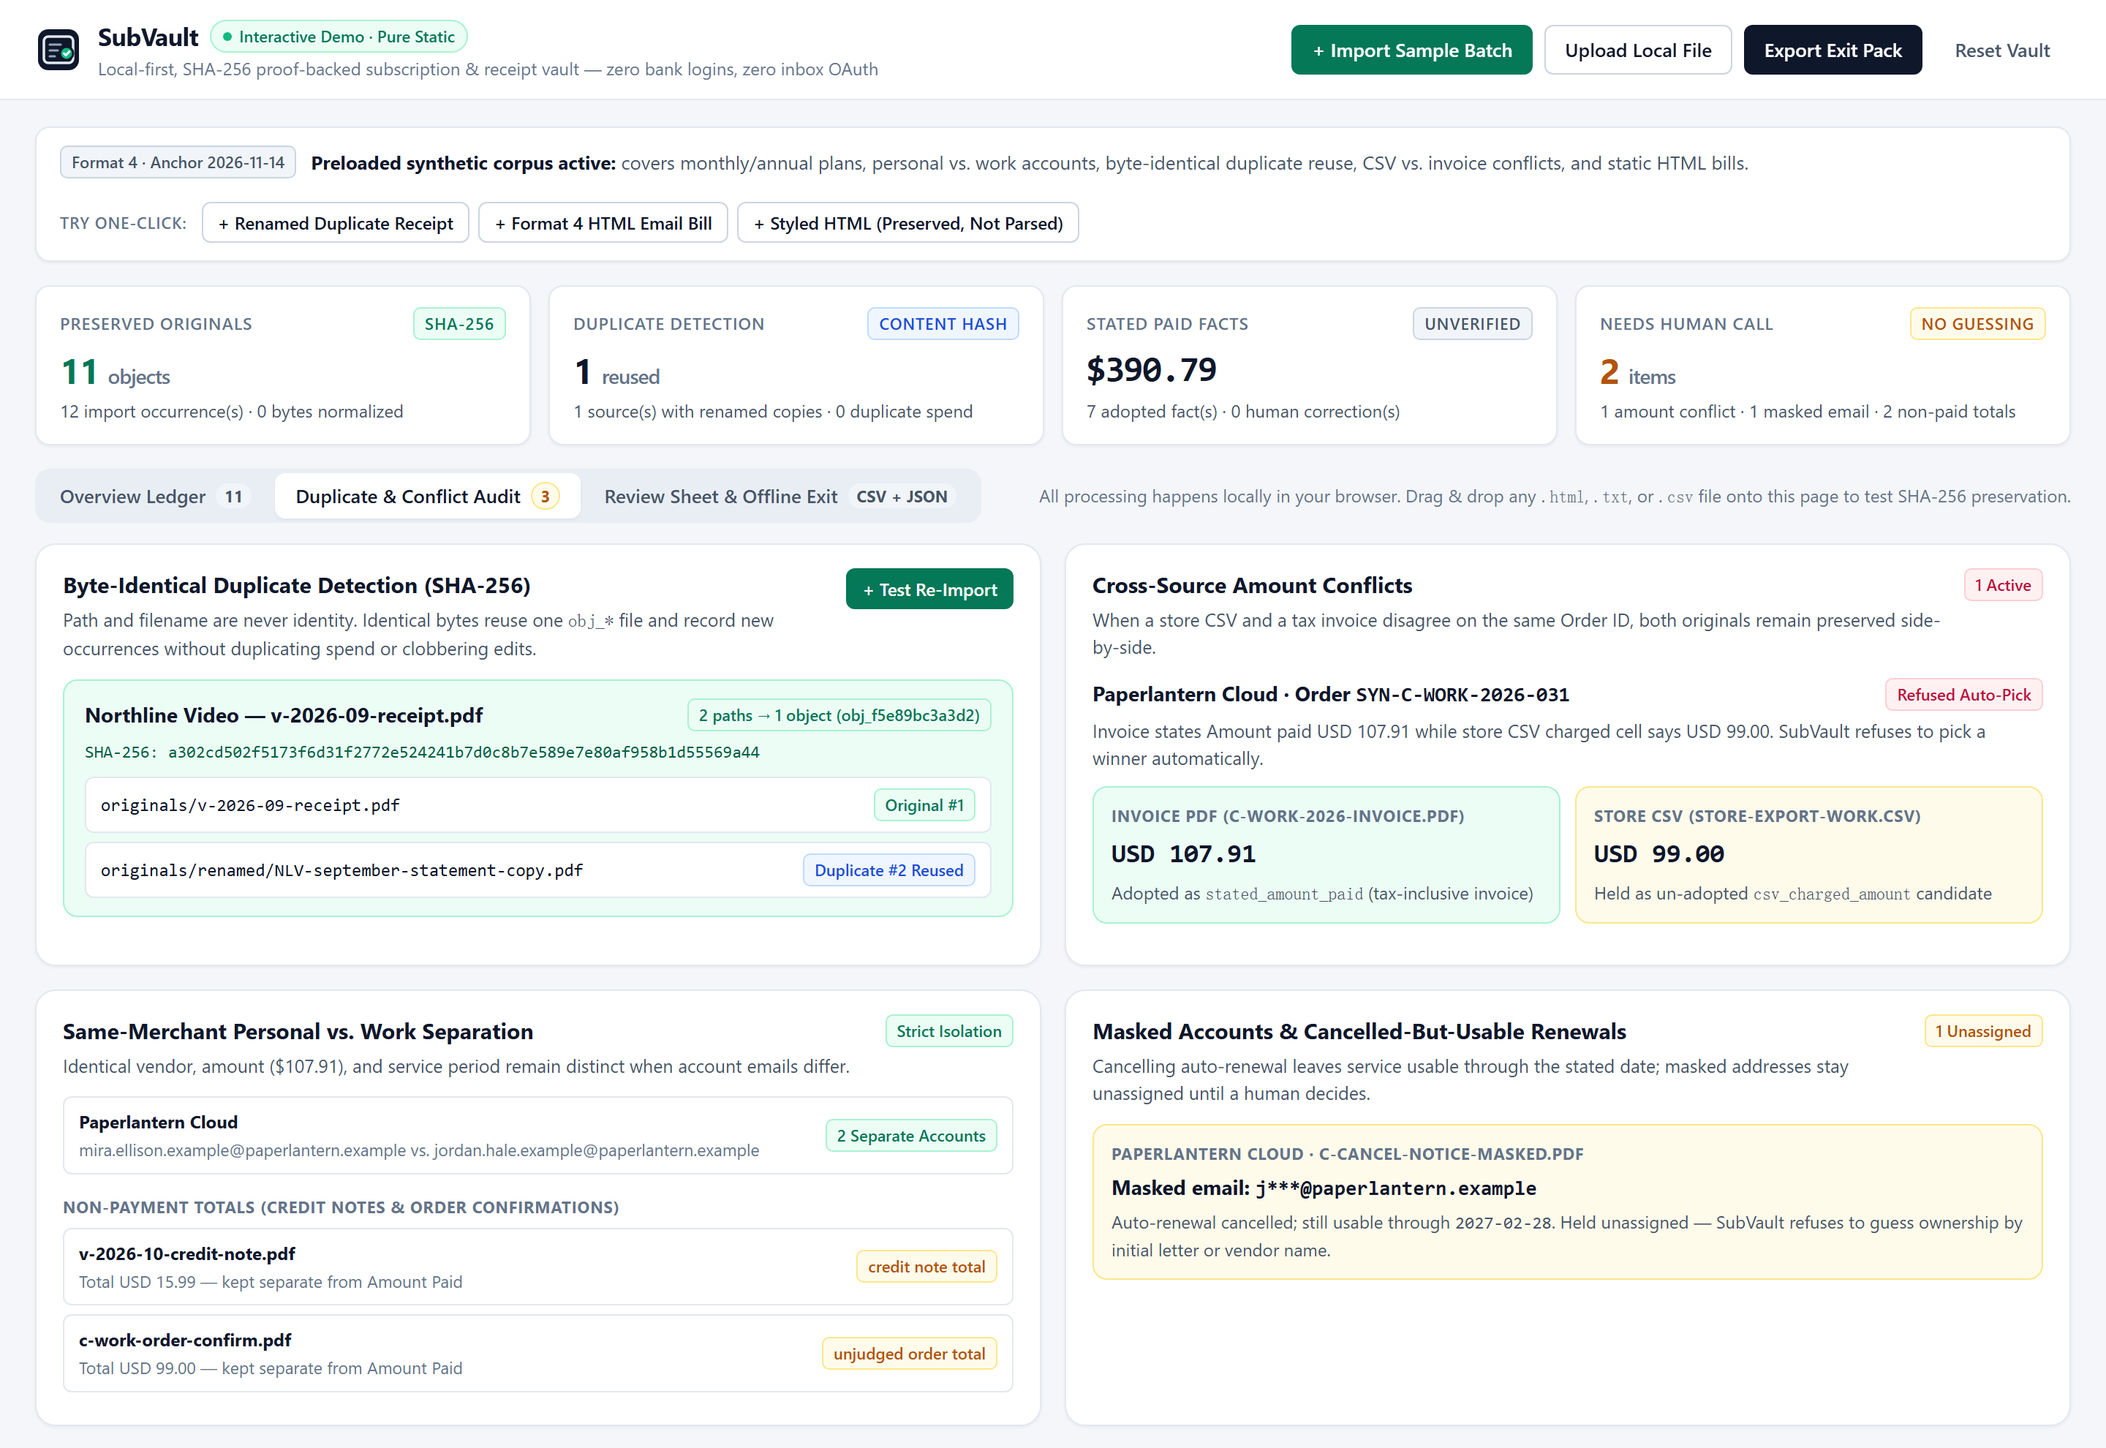
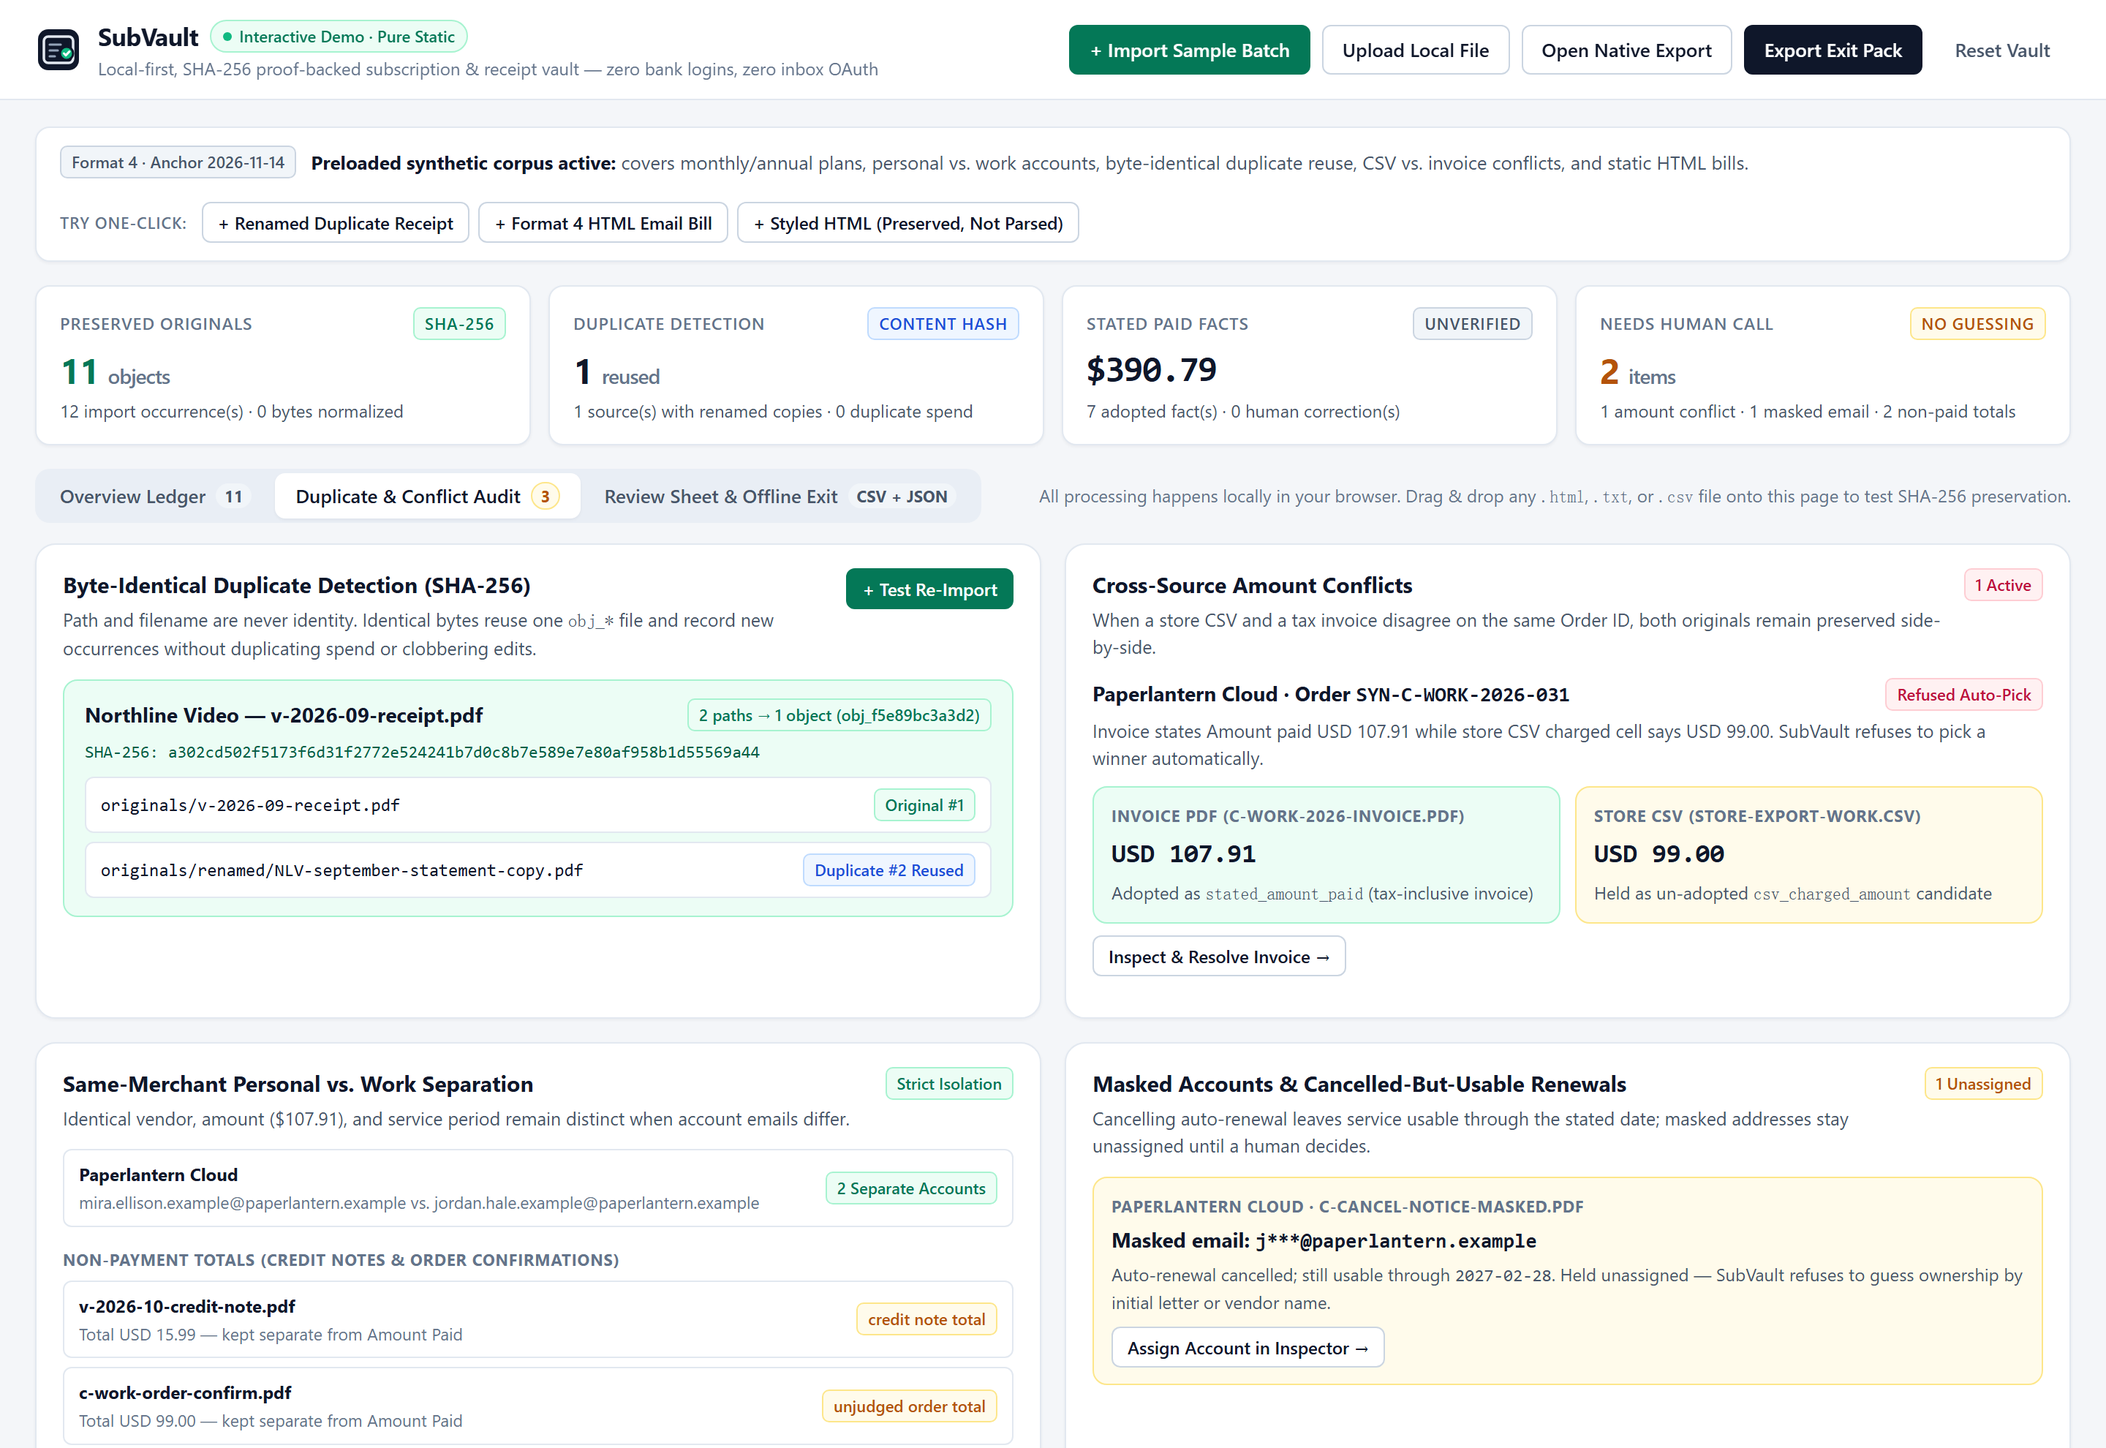
docs: add CHANGELOG, v0.2.0 ROADMAP, refreshed screenshots, and verify-package docs

diff --git a/RELEASE_NOTES.md b/RELEASE_NOTES.md
@@ -15,19 +15,20 @@ SubVault `v0.1.0` packages the verified **local-first Rust + SQLite preservation
 1. **Interactive Pure-Static Web Demo (`web/`)**
    - **Preloaded Synthetic Corpus:** Ships out-of-the-box with realistic billing scenarios covering monthly/annual subscriptions, personal vs. work account separation at the same vendor, byte-identical duplicate detection across renamed files, CSV vs. tax-invoice amount conflicts (`$99.00` vs. `$107.91`), credit-note totals vs. paid amounts, cancelled-but-usable renewals, masked unassigned account emails, one-time perpetual software licenses, and Format 4 static HTML table-row bills.
    - **One-Click Sample Import & Local File Drop:** Re-import the 12-file sample batch or drop local `.html`, `.txt`, `.csv`, and `.pdf` files directly in the browser to observe real SHA-256 object reuse, occurrence logging, and non-destructive human `correct` / `undo` decision preservation.
-   - **Zero Lock-In Browser Exports:** Preview and download `review.txt`, `facts.csv`, `records.json`, and a SHA-256 `manifest.json` (`offline-exit-1`) with zero backend calls.
+   - **Zero Lock-In Browser Exports & Native CLI Interop:** Preview and download `review.txt`, `facts.csv`, `records.json`, `manifest.json`, or a single full `.zip` offline exit archive (`web/zip.js`) directly verifiable by `subvault verify-package`, and open/SHA-256-verify real native `subvault export` folders directly in the browser via **Open Native Export**.
+   - **Interactive Human Decisions & Local Persistence:** Inline amount `correct`/`undo`, masked-account attribution (`human_assign_account`/`undo`), and automatic browser `localStorage` persistence with one-click reset.
    - **Subpath-Safe Static Hosting:** All static asset references are strictly relative (`./*`) with `.nojekyll` enabled for zero-error deployment on GitHub Pages (`/SubVault/`).
 
 2. **Verified Rust + SQLite Preservation & Extraction Core (`subvault` CLI)**
    - **Immutable Byte Custody (T1):** Content-addressed `objects/obj_<id>` storage with SHA-256 integrity verification, zero byte normalization, idempotent `CommandId` journaling, exclusive non-blocking `flock`, SQLite 3.46 WAL (`synchronous=FULL`), atomic directory publication via `renameat2(RENAME_NOREPLACE)` + parent fd `fsync`, and 17 distinct honest exit codes.
    - **Source-Stated Candidates & Facts (T2a / T3 / Format 4):** Deterministic extraction for UTF-8 text fragments and constrained static HTML bills (`tl` 0.7.8 + `html-escape` 0.2.13, refusing `<style>` / stylesheets instead of guessing CSS visibility), recording exact Unicode scalar and UTF-8 byte offsets.
    - **Append-Only Human Decisions:** `correct` and `undo` append auditable human revisions while keeping original bytes untouched and surviving re-imports.
-   - **Offline Exit & Read-Only Review Sheet (T5):** `subvault export` produces self-contained packages (`records.json`, `facts.csv`, `manifest.json`, `originals/<object_id>`) with explicit `complete` vs. `partial` reporting; `subvault review` writes a lock-consistent plain-text review sheet linked only to hash-verified package originals.
+   - **Offline Exit, Standalone Verification & Read-Only Review Sheet (T5):** `subvault export` produces self-contained packages (`records.json`, `facts.csv`, `manifest.json`, `originals/<object_id>`) with explicit `complete` vs. `partial` reporting; `subvault verify-package --package PATH` independently validates `manifest.json`, `snapshot_id`, `facts.csv`, and every original file's SHA-256 without needing the live vault; `subvault review` writes a lock-consistent plain-text review sheet linked only to hash-verified package originals.
 
 3. **CI, Automated Packaging & Release Verification**
-   - Added `.github/workflows/ci.yml` running deterministic corpus verification, full Rust unit and historical-worktree compatibility integration tests, Web Demo checks, and portable bundle packaging with `SHA256SUMS.txt` verification.
+   - Added `.github/workflows/ci.yml` running deterministic corpus verification, `cargo fmt --check`, `cargo clippy --lib --bins -- -D warnings`, full Rust unit and historical-worktree compatibility integration tests, bidirectional Web<->CLI interop checks, and portable bundle packaging with `SHA256SUMS.txt` verification.
    - Added `.github/workflows/pages.yml` for automated GitHub Pages deployment with subpath HTTP 200 checks.
-   - Added `scripts/package-release.sh` to generate reproducible portable archives and `SHA256SUMS.txt`.
+   - Added `.github/workflows/release.yml` for tag-driven (`v*`) GitHub Release publishing alongside `scripts/package-release.sh`.
 
 ---
 

diff --git a/docs/ROADMAP.md b/docs/ROADMAP.md
@@ -1,0 +1,44 @@
+# SubVault Roadmap — Next Iteration (`v0.2.0`)
+
+This document captures the clean handoff boundary at the close of **`v0.1.0`** (verified Linux preservation/extraction core + interactive pure-static Web Demo + bidirectional `offline-exit-1` verification) and defines the concrete engineering milestones for the next iteration (**`v0.2.0`**).
+
+---
+
+## Completed in `v0.1.0`
+
+- [x] **T0–T5 Rust + SQLite Core (Linux `ext4`):** immutable byte preservation (`objects/obj_*`), SHA-256 integrity, `flock`, SQLite 3.46 WAL (`synchronous=FULL`), `renameat2(RENAME_NOREPLACE)` + parent fd `fsync`, Format 1–4 isolation, deterministic UTF-8 fragment & constrained static HTML extraction, append-only `correct`/`undo`, `export`, `review`, and standalone `verify-package`.
+- [x] **Pure-Static Web Demo & Native Bridge (`web/`):** preloaded 12-file synthetic corpus, one-click sample re-import & SHA-256 deduplication audit, masked account attribution + undo, local persistence, pure-JS `.zip` offline exit pack (passes native `subvault verify-package`), and `Open Native Export` loader (verifies native `subvault export` folders in-browser).
+- [x] **Engineering & Release Infrastructure:** `cargo fmt` + `cargo clippy --lib --bins -D warnings` clean, GitHub Actions CI (`ci.yml`), GitHub Pages deploy (`pages.yml`), automated tag release workflow (`release.yml`), portable packaging script (`scripts/package-release.sh`) with `SHA256SUMS.txt`, and headless UI screenshots.
+
+---
+
+## Next Iteration (`v0.2.0`) — From Synthetic Core to First 100 Real Users
+
+### Milestone 1: Native Windows Support & Verification
+- **Goal:** Lift the `target_os = "linux"` compile gate in `src/platform.rs` cleanly with real Windows verification.
+- **Concrete tasks:**
+  1. Wire `src/windows_lock.rs` (`CreateFileW` + `LockFileEx`) into `VaultLock` under `cfg(windows)`.
+  2. Wire `src/windows_file_id.rs` (`GetFileInformationByHandleEx` / `FileIdInfo`) into output-path containment checks (`place_output`), covering Windows case-insensitivity and NTFS junctions/reparse points.
+  3. Implement atomic no-replace directory publication for Windows without silent overwrite.
+  4. Add a `windows-latest` job to `.github/workflows/ci.yml` and Windows `.zip` output to `release.yml`.
+
+### Milestone 2: Native PDF Text Extraction
+- **Goal:** Support real-world text PDFs (starting with the exact 9 text-PDF fixtures already defined in `synthetic/corpus/originals/*.pdf`) while keeping raw PDF bytes untouched and never silently running OCR.
+- **Concrete tasks:**
+  1. Add a deterministic, bounded-memory PDF text extractor emitting page-scoped locators (`pdf_page`, byte/scalar offsets) into `candidates` + `facts`.
+  2. Support multi-document logical expectations from `synthetic/corpus/logical-expectations.json`: same-merchant multi-account separation, credit-note vs. paid separation, order-total non-adoption, one-time perpetual license scope, and CSV-vs-invoice conflict surfacing.
+  3. Add a redacted-template export helper so early users can share broken vendor invoice layouts safely without leaking personal data.
+
+### Milestone 3: Real-Data Protection Mode & Removing `SYNTHETIC_ONLY`
+- **Goal:** Answer `protection_preference` and `primary_input_preference` cleanly so real personal/work billing receipts can be stored safely.
+- **Concrete tasks:**
+  1. Finalize local at-rest protection design (e.g., user-passphrase envelope encryption / SQLCipher or OS-keystore-backed object encryption + explicit offline recovery key).
+  2. Introduce a non-synthetic production vault format (preserving strict isolation from disposable synthetic Formats 1–4).
+  3. Document threat model, backup/recovery procedure, and verified offline exit decryption flow.
+
+### Milestone 4: Thin Native Desktop Shell (Windows-First)
+- **Goal:** Replace the CLI-only workflow with a native desktop wrapper over the Rust core (e.g., Tauri or egui sharing the exact UI flows validated in `web/`).
+- **Concrete tasks:**
+  1. Drag-and-drop & watch-folder local intake (PDF, saved HTML emails, store CSVs) — still zero Plaid and zero inbox OAuth.
+  2. Overview ledger, one-click jump to untouched original evidence, inline `correct`/`undo`/attribution, and one-click verifiable exit pack export.
+  3. Signed portable Windows installer/zip for the first 100 indie-dev & local-first pilot users.

diff --git a/README.md b/README.md
@@ -9,9 +9,9 @@
 
 ### Quick Links
 
-- **Live Interactive Demo (GitHub Pages):** **[https://yanagi42.github.io/SubVault/](https://yanagi42.github.io/SubVault/)** — preloaded synthetic corpus, one-click sample import, real SHA-256 duplicate detection, inline `correct`/`undo`, and downloadable `facts.csv` / `records.json` / `manifest.json`
-- **Portable Releases & Checksums:** **[Download Latest Release](https://github.com/Yanagi42/SubVault/releases/latest)** · [Release Notes (`RELEASE_NOTES.md`)](./RELEASE_NOTES.md)
-- **Full Technical Verification Spec (中文):** [`docs/SPEC-zh.md`](./docs/SPEC-zh.md)
+- **Live Interactive Demo (GitHub Pages):** **[https://yanagi42.github.io/SubVault/](https://yanagi42.github.io/SubVault/)** — preloaded synthetic corpus, one-click sample import, real SHA-256 duplicate detection, inline `correct`/`undo` & masked-account attribution, native CLI export verifier (`Open Native Export`), and one-click `.zip` offline exit download
+- **Portable Releases & Checksums:** **[Download Latest Release](https://github.com/Yanagi42/SubVault/releases/latest)** · [Release Notes (`RELEASE_NOTES.md`)](./RELEASE_NOTES.md) · [Changelog (`CHANGELOG.md`)](./CHANGELOG.md)
+- **Next Iteration Plan (`v0.2.0`) & Full Technical Spec:** [Roadmap (`docs/ROADMAP.md`)](./docs/ROADMAP.md) · [Full Technical Verification Spec (中文)](./docs/SPEC-zh.md)
 
 ---
 
@@ -139,6 +139,10 @@ bash scripts/package-release.sh
   --vault /tmp/my-vault \
   --out /tmp/my-export-pack
 
+# Independently verify the exported package without needing the live vault
+./target/release/subvault verify-package \
+  --package /tmp/my-export-pack
+
 # Generate a lock-consistent plain-text review sheet linked to verified originals
 ./target/release/subvault review \
   --vault /tmp/my-vault \
@@ -154,11 +158,11 @@ bash scripts/package-release.sh
 | --- | --- |
 | `src/` | Rust preservation engine, SQLite WAL store, static text & HTML extractors, append-only decision chain, offline exporter, and review sheet renderer |
 | `tests/` | 19 integration & backward-compatibility test suites (crash/fault hooks, WAL/header consistency, directory `renameat2(RENAME_NOREPLACE)`, parent fd `fsync`) |
-| `web/` | Zero-dependency, subpath-safe pure-static interactive Web Demo (`index.html`, `app.js`, `engine.js`, `demo-data.js`, `styles.css`) |
+| `web/` | Zero-dependency, subpath-safe pure-static interactive Web Demo (`index.html`, `app.js`, `engine.js`, `demo-data.js`, `zip.js`, `styles.css`) |
 | `synthetic/` | Deterministic T0 corpus generator and independent byte/logical expectations |
-| `scripts/` | Release packaging (`package-release.sh`), Web Demo checks (`test-web.mjs`), screenshot capture (`capture-screenshots.py`), and T1 evidence script |
-| `.github/workflows/` | Automated CI (`ci.yml`) and GitHub Pages deployment (`pages.yml`) |
-| `docs/` | Real UI screenshots (`docs/screenshots/`) and the complete Chinese technical specification (`docs/SPEC-zh.md`) |
+| `scripts/` | Release packaging (`package-release.sh`), Web Demo & CLI-interop checks (`test-web.mjs`), screenshot capture (`capture-screenshots.py`), and T1 evidence script |
+| `.github/workflows/` | Automated CI (`ci.yml`), GitHub Pages deployment (`pages.yml`), and tag-driven release publishing (`release.yml`) |
+| `docs/` | Real UI screenshots (`docs/screenshots/`), next-iteration roadmap (`docs/ROADMAP.md`), and the complete Chinese technical specification (`docs/SPEC-zh.md`) |
 
 ---
 

diff --git a/CHANGELOG.md b/CHANGELOG.md
@@ -1,0 +1,34 @@
+# Changelog
+
+All notable changes to SubVault are documented in this file.
+Format follows [Keep a Changelog](https://keepachangelog.com/en/1.1.0/) and [Semantic Versioning](https://semver.org/).
+
+## [Unreleased]
+
+Planned for the next iteration (`v0.2.0` — see [`docs/ROADMAP.md`](./docs/ROADMAP.md)):
+- Windows native runtime wiring (`src/windows_lock.rs`, `src/windows_file_id.rs`) and `windows-latest` CI verification.
+- Native PDF text extraction with exact page/offset locators.
+- At-rest encryption & key-recovery decision enabling removal of the `SYNTHETIC_ONLY` gate for real personal data.
+- Native desktop shell wrapping the Rust/SQLite engine.
+
+## [0.1.0] - 2026-11-19
+
+### Added
+- **Rust + SQLite Preservation & Extraction Core (`src/`):**
+  - Immutable content-addressed byte custody (`objects/obj_<id>`), SHA-256 verification, idempotent `CommandId` journaling, exclusive `flock`, SQLite 3.46 WAL (`synchronous=FULL`), atomic directory publication via `renameat2(RENAME_NOREPLACE)` + parent fd `fsync`, and honest exit-code separation (`0`–`21`).
+  - Isolated vault formats 1–4 (`T0`–`T5`), deterministic UTF-8 text fragment extraction (`stated-lines-1`) and constrained static HTML extraction (`tl` 0.7.8, `stated-html-blocks-3`, refusing `<style>`/stylesheets).
+  - Append-only human decision chain (`correct` / `undo`) preserving original bytes verbatim across re-imports.
+  - Self-contained `offline-exit-1` exporter (`subvault export`), lock-consistent read-only plain-text review sheet (`subvault review`), and standalone offline package verifier (`subvault verify-package --package PATH`).
+- **Pure-Static Interactive Web Demo (`web/`):**
+  - Preloaded 12-file synthetic corpus covering monthly/annual bills, same-merchant personal vs. work isolation, SHA-256 byte-identical deduplication, CSV vs. invoice amount conflicts, credit notes, masked cancellation notices, perpetual licenses, and Format 4 HTML bills.
+  - One-click sample batch import, local file drag-and-drop, inline amount `correct`/`undo`, masked account attribution + undo, browser `localStorage` persistence, one-click full `.zip` offline exit download (`web/zip.js`), and native CLI export folder loader (`Open Native Export`) with SHA-256 verification.
+  - Bidirectional interoperability verified between `subvault export` / `subvault verify-package` and the Web Demo.
+- **CI, Pages, Release Automation & Docs:**
+  - `.github/workflows/ci.yml` (`fetch-depth: 0`, `fmt`, `clippy -D warnings`, full Rust test suite, Web/interop tests, portable packaging).
+  - `.github/workflows/pages.yml` (subpath `/SubVault/` verification + GitHub Pages deploy).
+  - `.github/workflows/release.yml` (automated `v*` tag release publishing with `SHA256SUMS.txt`).
+  - `scripts/package-release.sh`, `scripts/test-web.mjs`, `scripts/capture-screenshots.py`, `RELEASE_NOTES.md`, English `README.md`, real headless screenshots in `docs/screenshots/`, and preserved full Chinese spec in `docs/SPEC-zh.md`.
+
+### Changed
+- Cleaned all Clippy lint warnings in library and binary targets (`cargo clippy --lib --bins -- -D warnings`).
+- Made `scripts/run-t1-evidence.sh` portable across local Cargo registries and writable output directories via `SUBVAULT_EVIDENCE_OUT` and `CARGO_HOME`.
